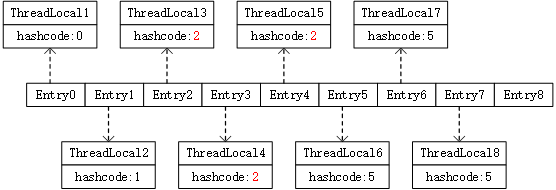
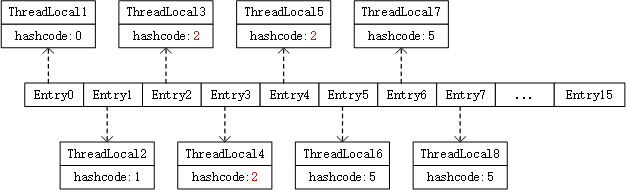
threadloca更新

diff --git a/Java开发笔记/threadlocal内存泄漏.md b/Java开发笔记/threadlocal内存泄漏.md
@@ -1,4 +1,4 @@
-之前看过ThreadLocal保存值的代码，保存的时候会计算数据在数组中的索引`int i = key.threadLocalHashCode & (len-1);`，但是数组的长度有限的，如果有很多个ThreadLocal变量时，就有可能出现哈希冲突，即计算出来的索引相同。比如Entry数组的长度是8，而我们声明了9个ThreadLocal变量，这样同一个线程中同时操作这9个ThreadLocal时就会出现哈希碰撞，现在我们看下Java如何解决ThreadLocal的哈希冲突。
+之前看过ThreadLocal保存值的代码，保存的时候会计算数据在数组中的索引`int i = key.threadLocalHashCode & (len-1);`，跟数组的长度与运算是为了保证每个Entry都在数组中，避免越界。但是数组的长度有限的，如果有很多个ThreadLocal变量时，就有可能出现哈希冲突，即计算出来的索引相同。比如Entry数组的长度是8，而我们声明了9个ThreadLocal变量，这样同一个线程中同时操作这9个ThreadLocal时就会出现哈希碰撞，现在我们看下Java如何解决ThreadLocal的哈希冲突。
 ```java
         private void set(ThreadLocal<?> key, Object value) {
             Entry[] tab = table;
@@ -76,7 +76,7 @@
                 cleanSomeSlots(expungeStaleEntry(slotToExpunge), len);
         }
 ```
-再看下如何清理掉过期的Entry，沿staleSlot向后遍历，发现有内置的ThreadLocal对象为null时清理掉，同时找出存在哈希冲突的ThreadLocal，判断是否存在hash冲突`if (h != i)`的逻辑很简单，不存在时`k.threadLocalHashCode & (len - 1)`计算出来的值跟数组的索引i相等，发现不相等必然存在哈希冲突，将此处的Entry向前移动。例如ThreadLocal6=null、ThreadLocal7、ThreadLocal8的哈希值都是5，现在先将staleSlot=5处的插槽清理掉，再向后移动，发现ThreadLocal7存在哈希碰撞，保存在Entry6处(本来应该保存在5&8=5处)，就将ThreadLocal7移动到ThreadLocal6对应的Entry5处，同时令Entry6=null；下次迭代到ThreadLocal8,发现又存在哈希碰撞，此时移动保存ThreadLocal8的Entry，先打算移动到`int h = k.threadLocalHashCode & (len - 1);`处，即Entry5处，但是Entry5已经保存ThreadLocal6了`while (tab[h] != null) h = nextIndex(h, len);`，就从Entry5处向后移动，找到下一个空的Entry6处保存，最终实现去掉需要被gc的Entry，同时将存在哈希碰撞的Entry前移。此方法返回到一个为null的Entry索引。
+再看下如何清理掉过期的Entry，沿staleSlot向后遍历，发现有内置的ThreadLocal对象为null时清理掉，同时找出存在哈希冲突的ThreadLocal，判断是否存在hash冲突`if (h != i)`的逻辑很简单，不存在时`k.threadLocalHashCode & (len - 1)`计算出来的值跟数组的索引i相等，发现不相等必然存在哈希冲突，将此处的Entry向前移动。例如ThreadLocal6=null、ThreadLocal7、ThreadLocal8的哈希值都是5，现在先将staleSlot=5处的插槽清理掉，再向后移动，发现ThreadLocal7存在哈希碰撞，保存在Entry6处(本来应该保存在5(101)&15(1111)=5即Entry5处)，就将ThreadLocal7移动到ThreadLocal6对应的Entry5处，同时令Entry6=null；下次迭代到ThreadLocal8,发现又存在哈希碰撞，此时移动保存ThreadLocal8的Entry，先打算移动到`int h = k.threadLocalHashCode & (len - 1);`处，即Entry5处，但是Entry5已经保存ThreadLocal6了，于是向后移动一位`while (tab[h] != null) h = nextIndex(h, len);`，找到下一个空的Entry6处保存，再将Entry6=null，去掉需要被gc的Entry，同时将存在哈希碰撞的Entry前移。此方法返回到一个为null的Entry索引。
 ```java
         private int expungeStaleEntry(int staleSlot) {
             Entry[] tab = table;

diff --git a/Java开发笔记/ThreadLocal.md b/Java开发笔记/ThreadLocal.md
@@ -37,12 +37,15 @@ helloThread[Thread-1,5,main]
         return t.threadLocals;
     }    
 ```
-如果在一个线程中首次使用ThreadLocal保持数据，则需要创建ThreadLocalMap，ThreadLocalMap中保存数据的实体是Entry，保存数据的过程就是先计算这个ThreadLocal对象的hashcode，根据hashcode计算在Entry数组中的位置，然后将创建的Entry保存在这个位置。
+如果在一个线程中首次使用ThreadLocal保持数据，则需要创建ThreadLocalMap，ThreadLocalMap中保存数据的实体是Entry，保存数据的过程就是先计算这个ThreadLocal对象的hashcode，根据hashcode计算在Entry数组中的位置，然后将创建的Entry保存在这个位置。可以看到Entry中维护的是指向ThreadLocal的弱引用，之所以是弱引用，是因为代码块中ThreadLocal临时变量不再被访问时，在只有Entry的弱引用情况是会被gc的，如果是强引用则不会被gc，即使ThreadLocal不再被访问也不会被gc。
 ```java
     void createMap(Thread t, T firstValue) {
         t.threadLocals = new ThreadLocalMap(this, firstValue);
     }
         ThreadLocalMap(ThreadLocal<?> firstKey, Object firstValue) {
+            //INITIAL_CAPACITY=16
+            //初始容量为16，与运算计算索引时就是跟15(1111)取与，由hash值决定结果
+            //而ThreadLocal的哈希值由魔数0x61c88647维护，出现哈希碰撞的概率极低
             table = new Entry[INITIAL_CAPACITY];
             int i = firstKey.threadLocalHashCode & (INITIAL_CAPACITY - 1);
             table[i] = new Entry(firstKey, firstValue);
@@ -63,7 +66,7 @@ helloThread[Thread-1,5,main]
 调用set()设置值的时候，会根据ThreadLocal计算hashcode。ThreadLocal中的属性threadLocalHashCode`private final int threadLocalHashCode = nextHashCode();`用来维护每个ThreadLocal的hash值。再根据hashcode计算Entry数组的索引，根据索引找到当前线程对应的Entry，这里分三种情况：
 1. 第一次设值，则直接添加如果是当前线程使用的ThreadLocal`if (k == key)`，则将对象设置进来，即写到存储数据的Entry中  
 2. ThreadLocal`if (k == key)`已经有值了，就直接更新
-3. ThreadLocal作为临时变量被gc了`if (k == null)`，例如在方法代码块中声明的ThreadLocal临时变量在方法执行完时不存在了，Entry中的ThreadLocal作为key是弱引用就会被gc；或者线程销毁了，此时指向Entry的引用不存在了,Entry也会被gc，此时如果不gc的话就会出现一块无法访问到的Entry，造成内存泄漏。  
+3. `if (k == null)`会出现的情况是多个线程同时访问同一个ThreadLocal时，有个线程用完ThreadLocal然后置为null，第二个线程set时就会发现Entry中保存的ThreadLocal为null，而Entry却还存在但是无法被访问，进而出现内存泄漏，此时需要清理无效的过期Entry`replaceStaleEntry`。  
 ![alt text](../visio/threadlocal.png)
 
 set()时如果发现hash冲突，ThreadLocal的做法是向后移动一位，到数组的下个索引处保存Entry，如果下个索引处有值了再继续向后找。
